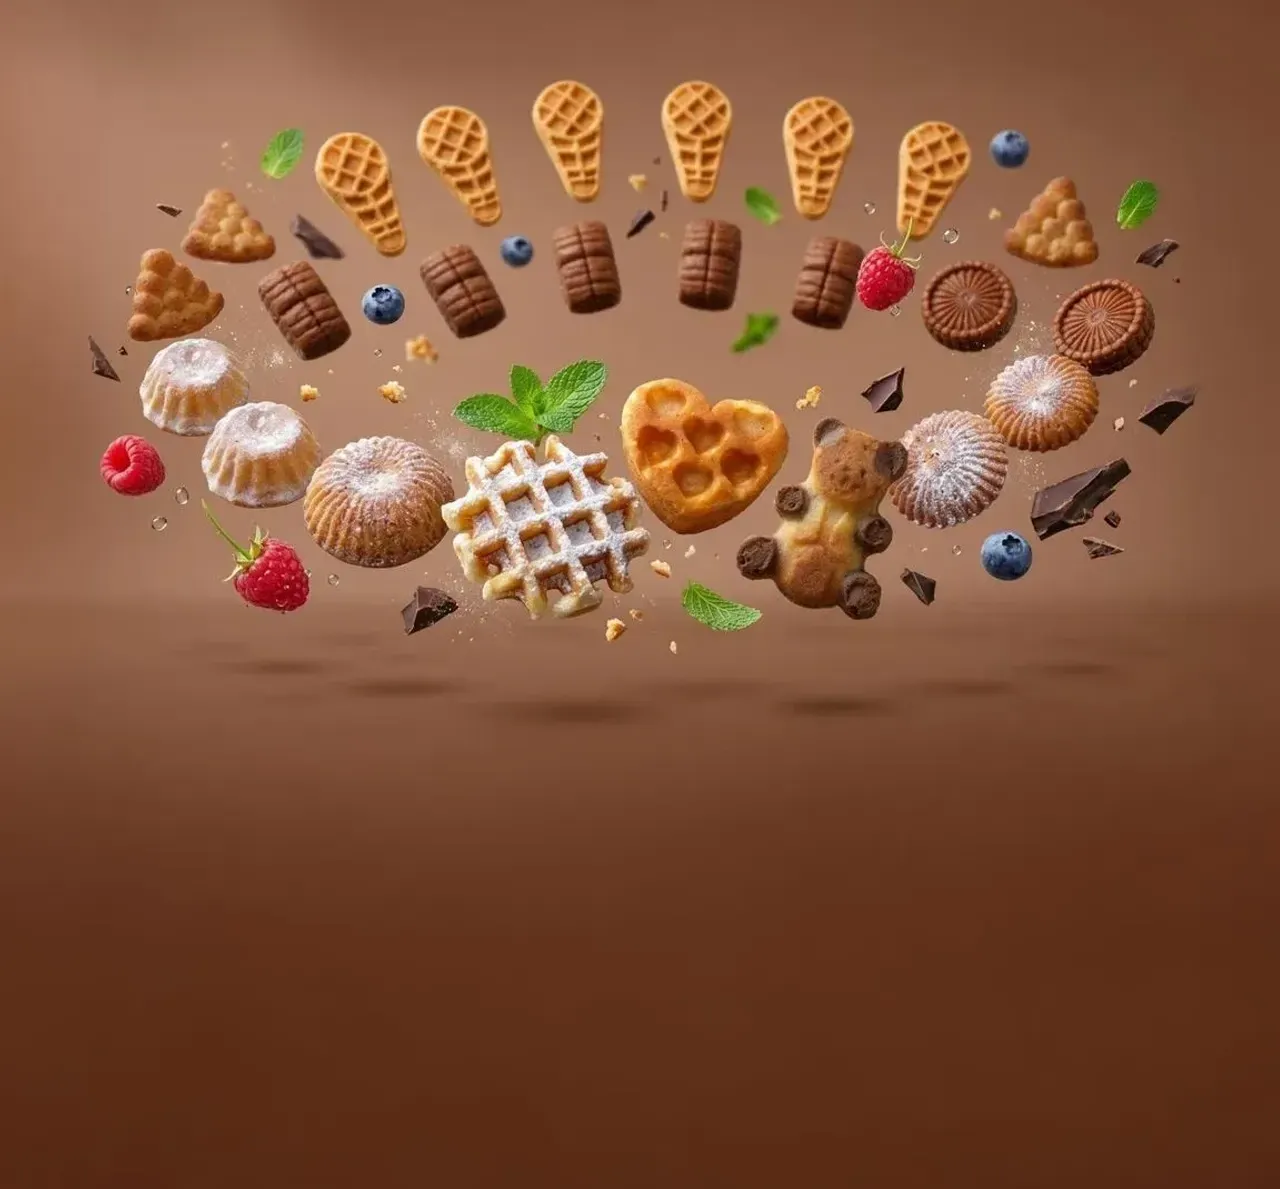
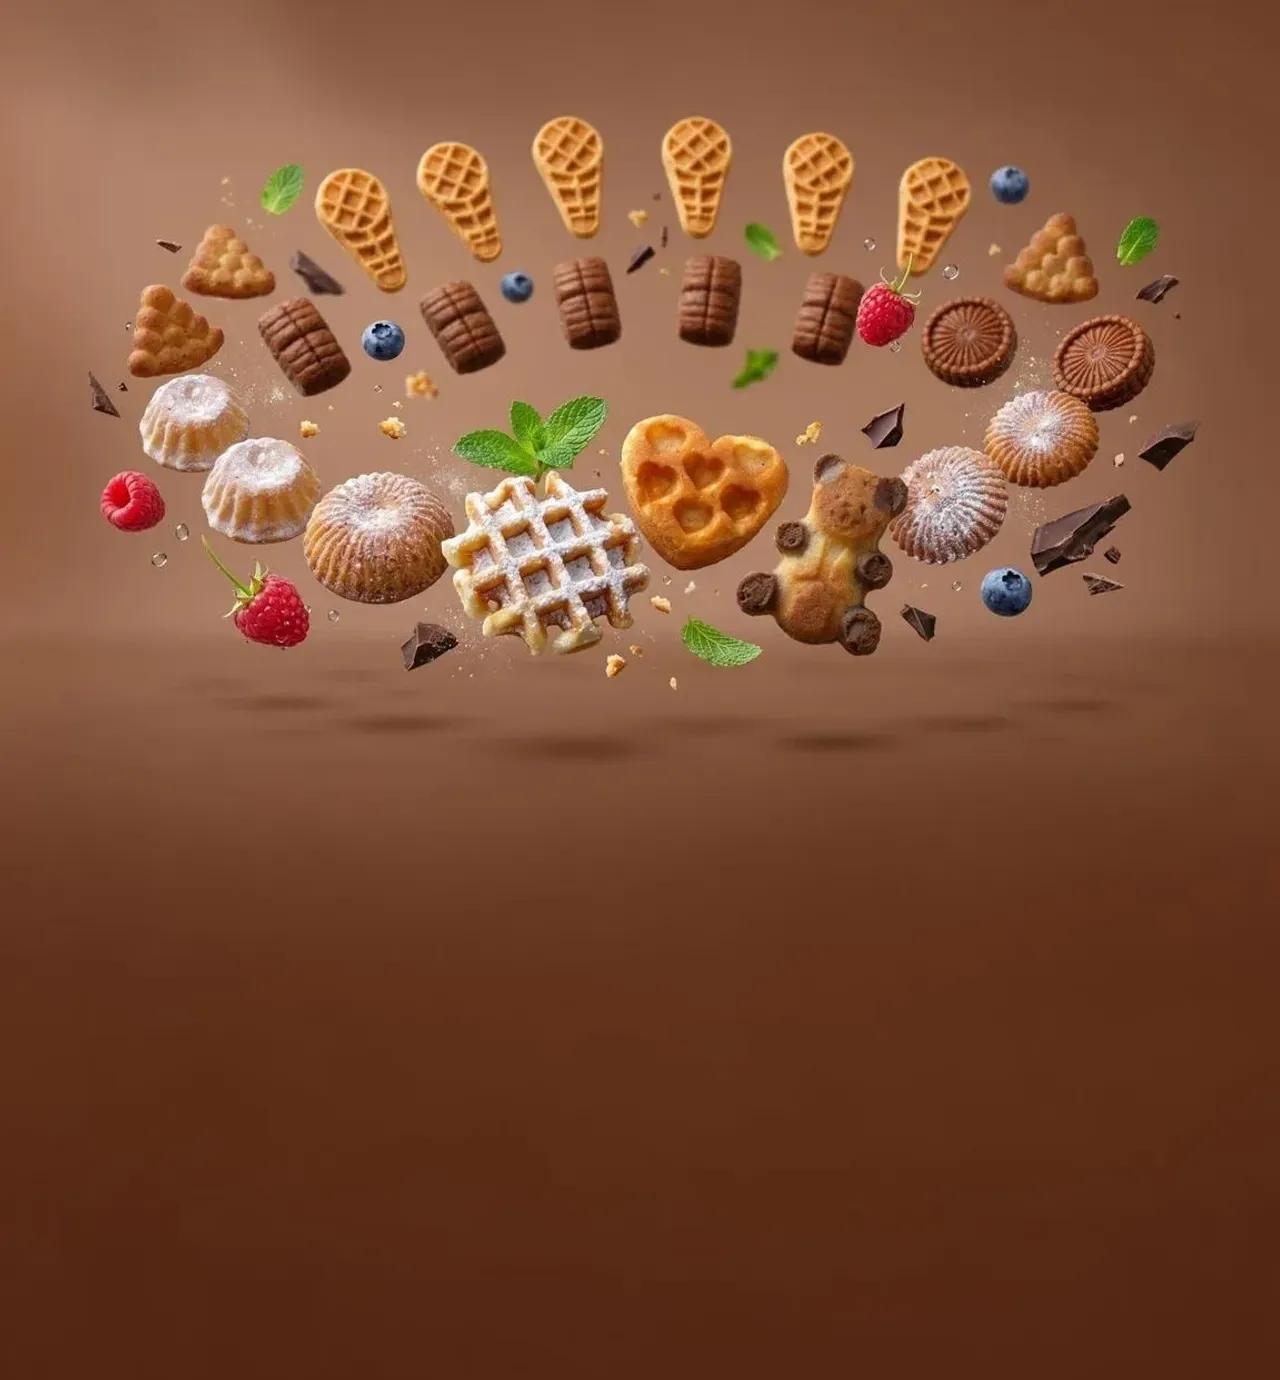
1

Changed region(s): [[0.0625, 0.0622, 0.9375, 0.5601]]

diff --git a/css/styles.css b/css/styles.css
@@ -369,13 +369,6 @@ h3,
     color: var(--text-muted);
 }
 
-.hero__visual {
-    position: relative;
-    display: flex;
-    flex-direction: column;
-    align-items: center;
-    gap: 16px;
-}
 
 .hero__image-placeholder {
     width: 100%;
@@ -398,14 +391,6 @@ h3,
     border-radius: 50%;
 }
 
-.hero__visual-text {
-    font-family: 'Oswald', sans-serif;
-    font-size: 14px;
-    font-weight: 600;
-    letter-spacing: 0.12em;
-    color: var(--orange-dark);
-    text-align: center;
-}
 
 .about {
     padding: 20px 0;
@@ -986,14 +971,6 @@ h3,
     display: block;
 }
 
-.hero__visual {
-    position: relative;
-    display: flex;
-    flex-direction: column;
-    align-items: center;
-    gap: 16px;
-}
-
 .hero__logo-wrapper {
     width: 100%;
     max-width: 360px;
@@ -1010,15 +987,6 @@ h3,
     display: block;
     border-radius: 50%;
     box-shadow: 0 8px 32px rgba(245, 124, 0, 0.15);
-}
-
-.hero__visual-text {
-    font-family: 'Oswald', sans-serif;
-    font-size: 14px;
-    font-weight: 600;
-    letter-spacing: 0.12em;
-    color: var(--orange-dark);
-    text-align: center;
 }
 
 @keyframes shimmerSweep {
@@ -1280,10 +1248,6 @@ h3,
 @media (max-width: 1024px) {
     .hero .container {
         grid-template-columns: 1fr;
-    }
-
-    .hero__visual {
-        display: none;
     }
 
     .about__grid {

diff --git a/index.html b/index.html
@@ -74,12 +74,6 @@
                         </div>
                     </div>
                 </div>
-                <div class="hero__visual">
-                    <div class="hero__logo-wrapper">
-                        <img src="img/logo.webp" alt="BEST SWEETS логотип" class="hero__logo-img">
-                    </div>
-                    <div class="hero__visual-text">СВЕЖАЯ ВЫПЕЧКА КАЖДОЕ УТРО</div>
-                </div>
             </div>
         </section>
 